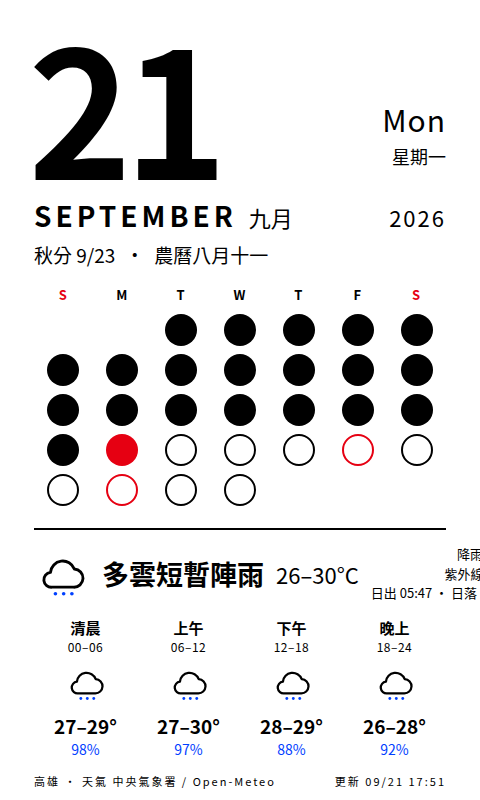
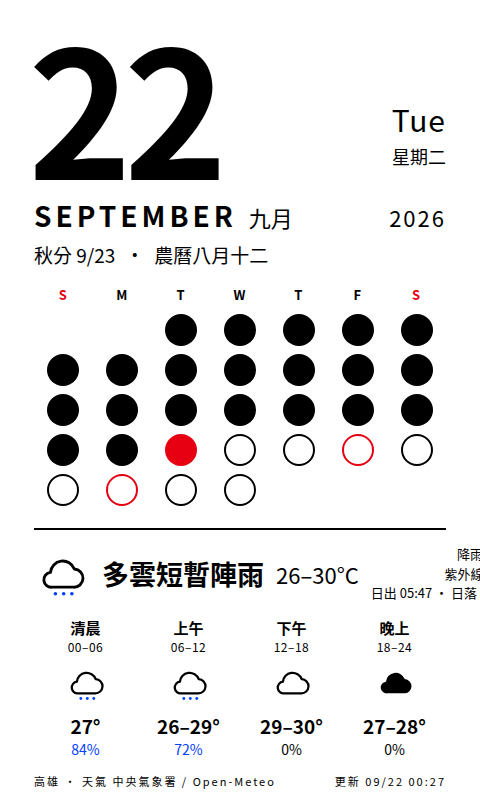
deploy: cf7d1051eb6821bc691ba0ade4beb12cdf9fe0ef

diff --git a/calendar.html b/calendar.html
@@ -47,16 +47,16 @@
 </style></head>
 <body><div class="page">
   <div class="head">
-    <div class="num">21</div>
-    <div class="wd"><div class="en">Mon</div><div class="zh">星期一</div></div>
+    <div class="num">22</div>
+    <div class="wd"><div class="en">Tue</div><div class="zh">星期二</div></div>
   </div>
   <div class="month"><span class="en">SEPTEMBER</span><span class="zh">九月</span><span class="yr">2026</span></div>
-  <div class="today"><span class="lunar">秋分 9/23</span><span>·</span><span class="lunar">農曆八月十一</span></div>
-  <div class="grid"><div class="h we">S</div><div class="h">M</div><div class="h">T</div><div class="h">W</div><div class="h">T</div><div class="h">F</div><div class="h we">S</div><div class="dot empty"></div><div class="dot empty"></div><div class="dot past" title="1"></div><div class="dot past" title="2"></div><div class="dot past" title="3"></div><div class="dot past" title="4"></div><div class="dot past" title="5"></div><div class="dot past" title="6"></div><div class="dot past" title="7"></div><div class="dot past" title="8"></div><div class="dot past" title="9"></div><div class="dot past" title="10"></div><div class="dot past" title="11"></div><div class="dot past" title="12"></div><div class="dot past" title="13"></div><div class="dot past" title="14"></div><div class="dot past" title="15"></div><div class="dot past" title="16"></div><div class="dot past" title="17"></div><div class="dot past" title="18"></div><div class="dot past" title="19"></div><div class="dot past" title="20"></div><div class="dot now" title="21"></div><div class="dot future" title="22"></div><div class="dot future" title="23"></div><div class="dot future" title="24"></div><div class="dot future hol" title="25"></div><div class="dot future" title="26"></div><div class="dot future" title="27"></div><div class="dot future hol" title="28"></div><div class="dot future" title="29"></div><div class="dot future" title="30"></div></div>
+  <div class="today"><span class="lunar">秋分 9/23</span><span>·</span><span class="lunar">農曆八月十二</span></div>
+  <div class="grid"><div class="h we">S</div><div class="h">M</div><div class="h">T</div><div class="h">W</div><div class="h">T</div><div class="h">F</div><div class="h we">S</div><div class="dot empty"></div><div class="dot empty"></div><div class="dot past" title="1"></div><div class="dot past" title="2"></div><div class="dot past" title="3"></div><div class="dot past" title="4"></div><div class="dot past" title="5"></div><div class="dot past" title="6"></div><div class="dot past" title="7"></div><div class="dot past" title="8"></div><div class="dot past" title="9"></div><div class="dot past" title="10"></div><div class="dot past" title="11"></div><div class="dot past" title="12"></div><div class="dot past" title="13"></div><div class="dot past" title="14"></div><div class="dot past" title="15"></div><div class="dot past" title="16"></div><div class="dot past" title="17"></div><div class="dot past" title="18"></div><div class="dot past" title="19"></div><div class="dot past" title="20"></div><div class="dot past" title="21"></div><div class="dot now" title="22"></div><div class="dot future" title="23"></div><div class="dot future" title="24"></div><div class="dot future hol" title="25"></div><div class="dot future" title="26"></div><div class="dot future" title="27"></div><div class="dot future hol" title="28"></div><div class="dot future" title="29"></div><div class="dot future" title="30"></div></div>
   <div class="wx"><div class="line">
     <div class="wxhead"><svg viewBox="0 0 64 68" xmlns="http://www.w3.org/2000/svg"><path d="M20 50h26a11 11 0 0 0 1-22 15 15 0 0 0-29 4 9 9 0 0 0 2 18z" fill="#fff" stroke="#000" stroke-width="3.5" stroke-linejoin="round"/><g fill="#0040ff"><circle cx="24" cy="58" r="2.2"/><circle cx="34" cy="58" r="2.2"/><circle cx="44" cy="58" r="2.2"/></g></svg><span class="desc">多雲短暫陣雨</span><span class="temp">26–30°C</span>
-      <div class="meta">降雨 30%<br>紫外線 過量<br>日出 05:47 · 日落 17:56</div></div>
-    <div class="slots"><div class="slot"><div class="n">清晨</div><div class="hrs">00–06</div><svg viewBox="0 0 64 68" xmlns="http://www.w3.org/2000/svg"><path d="M20 50h26a11 11 0 0 0 1-22 15 15 0 0 0-29 4 9 9 0 0 0 2 18z" fill="#fff" stroke="#000" stroke-width="3.5" stroke-linejoin="round"/><g fill="#0040ff"><circle cx="24" cy="58" r="2.2"/><circle cx="34" cy="58" r="2.2"/><circle cx="44" cy="58" r="2.2"/></g></svg><div class="t">27–29°</div><div class="p ">98%</div></div><div class="slot"><div class="n">上午</div><div class="hrs">06–12</div><svg viewBox="0 0 64 68" xmlns="http://www.w3.org/2000/svg"><path d="M20 50h26a11 11 0 0 0 1-22 15 15 0 0 0-29 4 9 9 0 0 0 2 18z" fill="#fff" stroke="#000" stroke-width="3.5" stroke-linejoin="round"/><g fill="#0040ff"><circle cx="24" cy="58" r="2.2"/><circle cx="34" cy="58" r="2.2"/><circle cx="44" cy="58" r="2.2"/></g></svg><div class="t">27–30°</div><div class="p ">97%</div></div><div class="slot"><div class="n">下午</div><div class="hrs">12–18</div><svg viewBox="0 0 64 68" xmlns="http://www.w3.org/2000/svg"><path d="M20 50h26a11 11 0 0 0 1-22 15 15 0 0 0-29 4 9 9 0 0 0 2 18z" fill="#fff" stroke="#000" stroke-width="3.5" stroke-linejoin="round"/><g fill="#0040ff"><circle cx="24" cy="58" r="2.2"/><circle cx="34" cy="58" r="2.2"/><circle cx="44" cy="58" r="2.2"/></g></svg><div class="t">28–29°</div><div class="p ">88%</div></div><div class="slot"><div class="n">晚上</div><div class="hrs">18–24</div><svg viewBox="0 0 64 68" xmlns="http://www.w3.org/2000/svg"><path d="M20 50h26a11 11 0 0 0 1-22 15 15 0 0 0-29 4 9 9 0 0 0 2 18z" fill="#fff" stroke="#000" stroke-width="3.5" stroke-linejoin="round"/><g fill="#0040ff"><circle cx="24" cy="58" r="2.2"/><circle cx="34" cy="58" r="2.2"/><circle cx="44" cy="58" r="2.2"/></g></svg><div class="t">26–28°</div><div class="p ">92%</div></div></div>
+      <div class="meta">降雨 30%<br>紫外線 過量<br>日出 05:47 · 日落 17:55</div></div>
+    <div class="slots"><div class="slot"><div class="n">清晨</div><div class="hrs">00–06</div><svg viewBox="0 0 64 68" xmlns="http://www.w3.org/2000/svg"><path d="M20 50h26a11 11 0 0 0 1-22 15 15 0 0 0-29 4 9 9 0 0 0 2 18z" fill="#fff" stroke="#000" stroke-width="3.5" stroke-linejoin="round"/><g fill="#0040ff"><circle cx="24" cy="58" r="2.2"/><circle cx="34" cy="58" r="2.2"/><circle cx="44" cy="58" r="2.2"/></g></svg><div class="t">27°</div><div class="p ">84%</div></div><div class="slot"><div class="n">上午</div><div class="hrs">06–12</div><svg viewBox="0 0 64 68" xmlns="http://www.w3.org/2000/svg"><path d="M20 50h26a11 11 0 0 0 1-22 15 15 0 0 0-29 4 9 9 0 0 0 2 18z" fill="#fff" stroke="#000" stroke-width="3.5" stroke-linejoin="round"/><g fill="#0040ff"><circle cx="24" cy="58" r="2.2"/><circle cx="34" cy="58" r="2.2"/><circle cx="44" cy="58" r="2.2"/></g></svg><div class="t">26–29°</div><div class="p ">72%</div></div><div class="slot"><div class="n">下午</div><div class="hrs">12–18</div><svg viewBox="0 0 64 68" xmlns="http://www.w3.org/2000/svg"><path d="M20 50h26a11 11 0 0 0 1-22 15 15 0 0 0-29 4 9 9 0 0 0 2 18z" fill="#fff" stroke="#000" stroke-width="3.5" stroke-linejoin="round"/></svg><div class="t">29–30°</div><div class="p dry">0%</div></div><div class="slot"><div class="n">晚上</div><div class="hrs">18–24</div><svg viewBox="0 0 64 68" xmlns="http://www.w3.org/2000/svg"><path d="M20 50h26a11 11 0 0 0 1-22 15 15 0 0 0-29 4 9 9 0 0 0 2 18z" fill="#000"/></svg><div class="t">27–28°</div><div class="p dry">0%</div></div></div>
   </div></div>
-  <div class="foot"><span>高雄 · 天氣 中央氣象署 / Open-Meteo</span><span>更新 09/21 17:51</span></div>
+  <div class="foot"><span>高雄 · 天氣 中央氣象署 / Open-Meteo</span><span>更新 09/22 00:27</span></div>
 </div></body></html>
